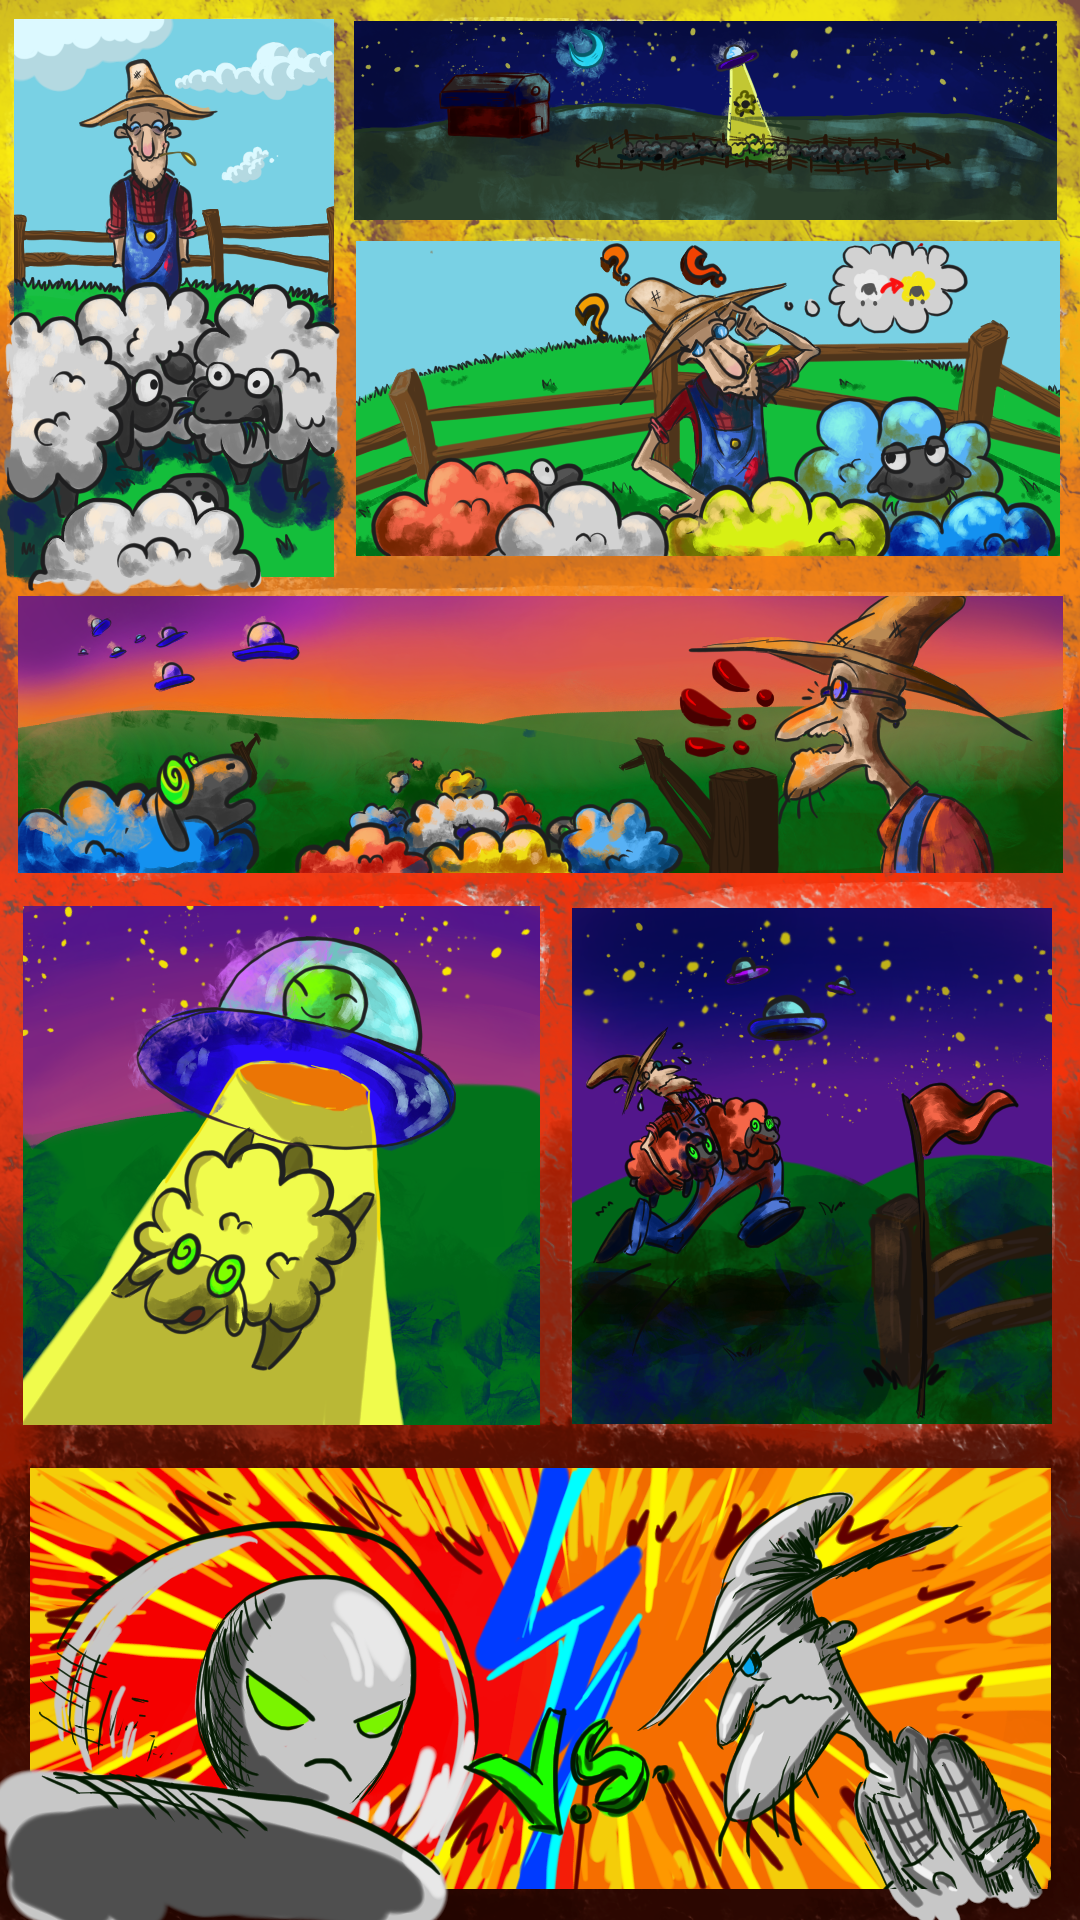
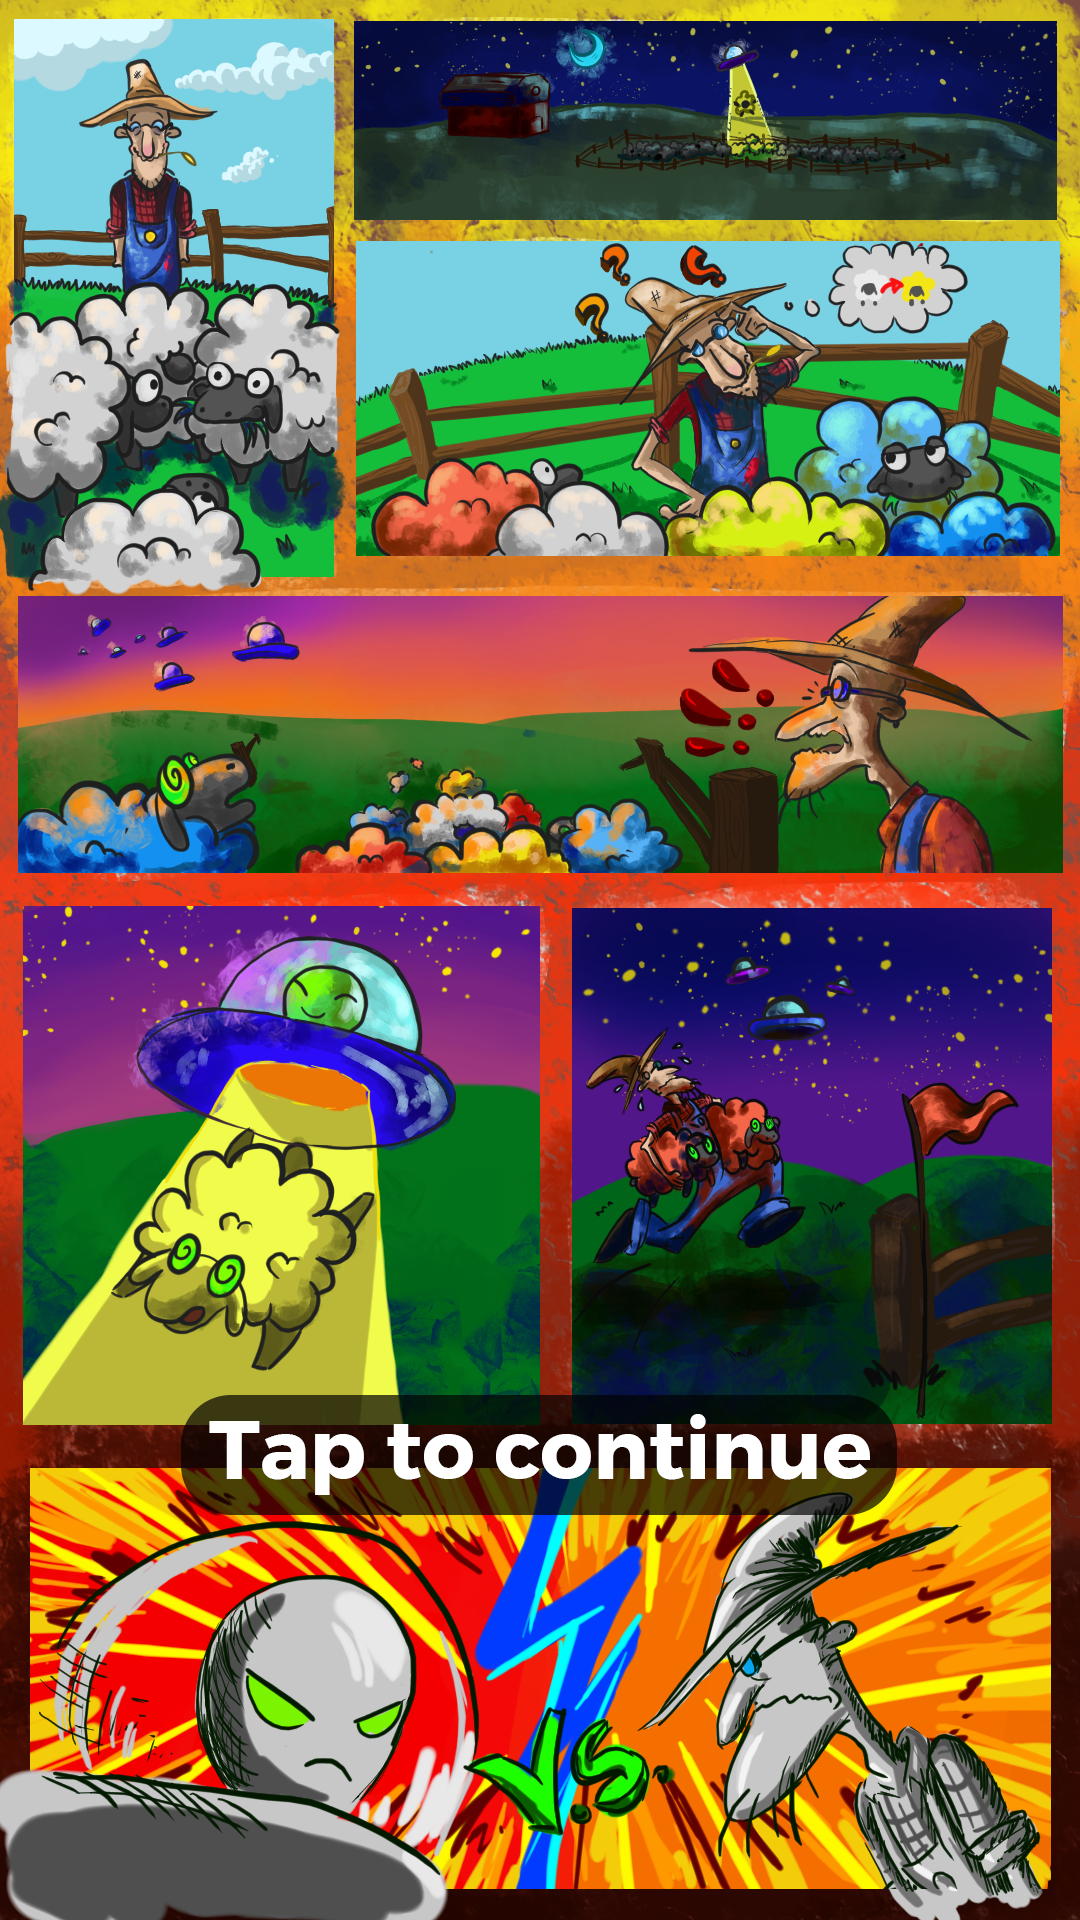
Bug fixes in story screen. (Ready for iOS)

Changed region(s): [[0.1528, 0.7188, 0.8556, 0.8125]]

diff --git a/core/src/mx/itesm/sheep/LevelThree.java b/core/src/mx/itesm/sheep/LevelThree.java
@@ -182,7 +182,7 @@ public class LevelThree extends ScreenTemplate {
     private Texture rainbow;
 
     private float startTime;
-    private Texture LevelThreeTutorial;
+    private Texture tutorial;
 
 
     public LevelThree(SheepEm sheepEm){
@@ -828,7 +828,7 @@ public class LevelThree extends ScreenTemplate {
         oveEstaticWhite = new Texture("Sheep/Level 3/White/sheep_grazing.png");
         oveEstaticYellow = new Texture("Sheep/Level 3/Yellow/sheep_grazing.png");
         oveEstaticRainbow = new Texture("Sheep/Level 2/Rainbow/sheep_grazing.png");
-        LevelThreeTutorial = new Texture("level3Tutorial.png");
+        tutorial = new Texture("level3Tutorial.png");
     }
 
 
@@ -839,7 +839,7 @@ public class LevelThree extends ScreenTemplate {
         startTime+=Gdx.graphics.getDeltaTime();
 
 
-        if (estado == EstadoJuego.JUGANDO && startTime>=4.5) {
+        if (estado == EstadoJuego.JUGANDO && startTime>=2.5) {
             Gdx.input.setInputProcessor(escenaJuego);
             salida += Gdx.graphics.getDeltaTime();
             tiempo += Gdx.graphics.getDeltaTime();
@@ -912,8 +912,8 @@ public class LevelThree extends ScreenTemplate {
             batch.draw(life,66,1778);
         }
 
-        if(startTime<4.5){
-            batch.draw(LevelThreeTutorial,0,0);
+        if(startTime<2.5){
+            batch.draw(tutorial,0,0);
         }
 
         if(lifes<=0){
@@ -974,7 +974,7 @@ public class LevelThree extends ScreenTemplate {
 
         batch.end();
 
-        if(startTime>=4.5){
+        if(startTime>=2.5){
             escenaJuego.draw();
         }
 
@@ -1030,7 +1030,7 @@ public class LevelThree extends ScreenTemplate {
         }
 
         if(pref.getBoolean("musicOn")){
-            if(estado == EstadoJuego.JUGANDO && startTime>=4.5){
+            if(estado == EstadoJuego.JUGANDO && startTime>=2.5){
                 sheepEm.playLevelThreeMusic();
             }else{
                 sheepEm.pauseLevelThreeMusic();
@@ -1240,7 +1240,7 @@ public class LevelThree extends ScreenTemplate {
             TextureRegionDrawable nextLevelPrTrd = new TextureRegionDrawable(new TextureRegion(nextLevelPr));
 
             ImageButton nextLevelButton = new ImageButton(nextLevelTrd,nextLevelPrTrd);
-            nextLevelButton.setPosition(383,972);
+            nextLevelButton.setPosition(383,772);
             nextLevelButton.addListener(new ClickListener(){
                 @Override
                 public void clicked(InputEvent event, float x, float y) {
@@ -1251,45 +1251,6 @@ public class LevelThree extends ScreenTemplate {
                 }
             });
             this.addActor(nextLevelButton);
-
-            Texture retryLevel = new Texture("Buttons/unpressed/restartButton.png");
-            Texture retryLevelPr = new Texture("Buttons/pressed/pressedRestartButton.png");
-            TextureRegionDrawable retryLevelTrd = new TextureRegionDrawable(new TextureRegion(retryLevel));
-            TextureRegionDrawable retryLevelPrTrd = new TextureRegionDrawable(new TextureRegion(retryLevelPr));
-
-            ImageButton retryLevelButton = new ImageButton(retryLevelTrd, retryLevelPrTrd);
-            retryLevelButton.setPosition(586,699);
-            retryLevelButton.addListener(new ClickListener(){
-                @Override
-                public void clicked(InputEvent event, float x, float y) {
-                    sheepEm.setScreen(new LevelThree(sheepEm));
-                    sheepEm.stopLevelThreeMusic();
-                    sheepEm.playLevelThreeMusic();
-                    if(pref.getBoolean("musicOn")){
-                        sheepEm.win.stop();
-                    }
-                }
-            });
-            this.addActor(retryLevelButton);
-
-
-            Texture levelsMenu = new Texture("Buttons/unpressed/levelsButton.png");
-            Texture levelsMenuPr = new Texture("Buttons/pressed/PressedLevelsButton.png");
-            TextureRegionDrawable levelsMenuTrd = new TextureRegionDrawable(new TextureRegion(levelsMenu));
-            TextureRegionDrawable levelsMenuPrTrd = new TextureRegionDrawable(new TextureRegion(levelsMenuPr));
-
-            ImageButton levelsButton = new ImageButton(levelsMenuTrd,levelsMenuPrTrd);
-            levelsButton.setPosition(285,699);
-            levelsButton.addListener(new ClickListener(){
-                @Override
-                public void clicked(InputEvent event, float x, float y) {
-                    sheepEm.setScreen(new MapScreen(sheepEm));
-                    if(pref.getBoolean("musicOn")){
-                        sheepEm.win.stop();
-                    }
-                }
-            });
-            this.addActor(levelsButton);
 
 
         }

diff --git a/core/src/mx/itesm/sheep/AlienStory.java b/core/src/mx/itesm/sheep/AlienStory.java
@@ -37,28 +37,6 @@ public class AlienStory extends ScreenTemplate {
         createScene();
         Gdx.input.setInputProcessor(storyStage);
 
-        fadeIn = new Texture("fadeIn.png");
-
-
-        TextureRegion[][] tmpFrames = TextureRegion.split(fadeIn,1080,1920);
-
-        animationFrames = new TextureRegion[7];
-        animationFrames2 = new TextureRegion[7];
-
-        int index = 0;
-
-        for (int i = 6; i >= 0 ; i--) {
-            animationFrames[index++] = tmpFrames[0][i];
-        }
-
-        index = 0;
-        for (int i = 0; i < 7; i++) {
-            animationFrames2[index++] = tmpFrames[0][i];
-        }
-
-
-        fadeOutAnimation = new Animation(1f/15f,animationFrames2);
-        fadeInAnimation = new Animation(1f/15f,animationFrames);
     }
 
     private void loadTextures() {
@@ -78,21 +56,7 @@ public class AlienStory extends ScreenTemplate {
     @Override
     public void render(float delta) {
         storyStage.draw();
-
-        batch.begin();
-
         elapsedTime += Gdx.graphics.getDeltaTime();
-        TextureRegion fadeIn = (TextureRegion) fadeInAnimation.getKeyFrame(elapsedTime,false);
-        batch.draw(fadeIn,0,0);
-
-        if(elapsedTime>=6){
-            elapsedTime2 += Gdx.graphics.getDeltaTime();
-            TextureRegion fadeOut = (TextureRegion) fadeOutAnimation.getKeyFrame(elapsedTime2,false);
-            batch.draw(fadeOut,0,0);
-            System.out.println("Done");
-        }
-
-        batch.end();
 
         if(elapsedTime>=6.8){
             sheepEm.setScreen(new AlienLevel(sheepEm));

diff --git a/core/src/mx/itesm/sheep/LevelTwo.java b/core/src/mx/itesm/sheep/LevelTwo.java
@@ -591,7 +591,7 @@ public class LevelTwo extends ScreenTemplate {
 
         startTime+=Gdx.graphics.getDeltaTime();
 
-        if (estado == EstadoJuego.JUGANDO && startTime>=4.5) {
+        if (estado == EstadoJuego.JUGANDO && startTime>=2.5) {
             Gdx.input.setInputProcessor(escenaJuego);
             salida += Gdx.graphics.getDeltaTime();
             tiempo += Gdx.graphics.getDeltaTime();
@@ -675,13 +675,13 @@ public class LevelTwo extends ScreenTemplate {
             arrOvejas.get(0).render(batch);
         }
 
-        if(startTime<4.5){
+        if(startTime<2.5){
             batch.draw(levelTwoTutorial,0,0);
         }
 
         batch.end();
 
-        if(startTime>4.5){
+        if(startTime>2.5){
             escenaJuego.draw();
         }
 
@@ -743,7 +743,7 @@ public class LevelTwo extends ScreenTemplate {
         }
 
         if(pref.getBoolean("musicOn")){
-            if(estado == EstadoJuego.JUGANDO && startTime>=4.5){
+            if(estado == EstadoJuego.JUGANDO && startTime>=2.5){
                 sheepEm.levelTwoMusic.play();
                 sheepEm.levelTwoMusic.setLooping(true);
             }else{

diff --git a/core/src/mx/itesm/sheep/StoryScreen.java b/core/src/mx/itesm/sheep/StoryScreen.java
@@ -54,17 +54,19 @@ public class StoryScreen extends ScreenTemplate {
         TextureRegionDrawable trdBackground = new TextureRegionDrawable(new TextureRegion(background));
         Image imgBackground = new Image(trdBackground);
         imgBackground.setPosition(0,0);
+        imgBackground.addListener( new ClickListener() {
+            @Override
+            public void clicked(InputEvent event, float x, float y) {
+                super.clicked(event, x, y);
+                sheepEm.setScreen(new LevelOne(sheepEm));
+            }
+        } );
         storyStage.addActor(imgBackground);
     }
 
     @Override
     public void render(float delta) {
         storyStage.draw();
-
-        elapsedTime+= Gdx.graphics.getDeltaTime();
-        if(elapsedTime>=6.8){
-            sheepEm.setScreen(new LevelOne(sheepEm));
-        }
 
     }
 
